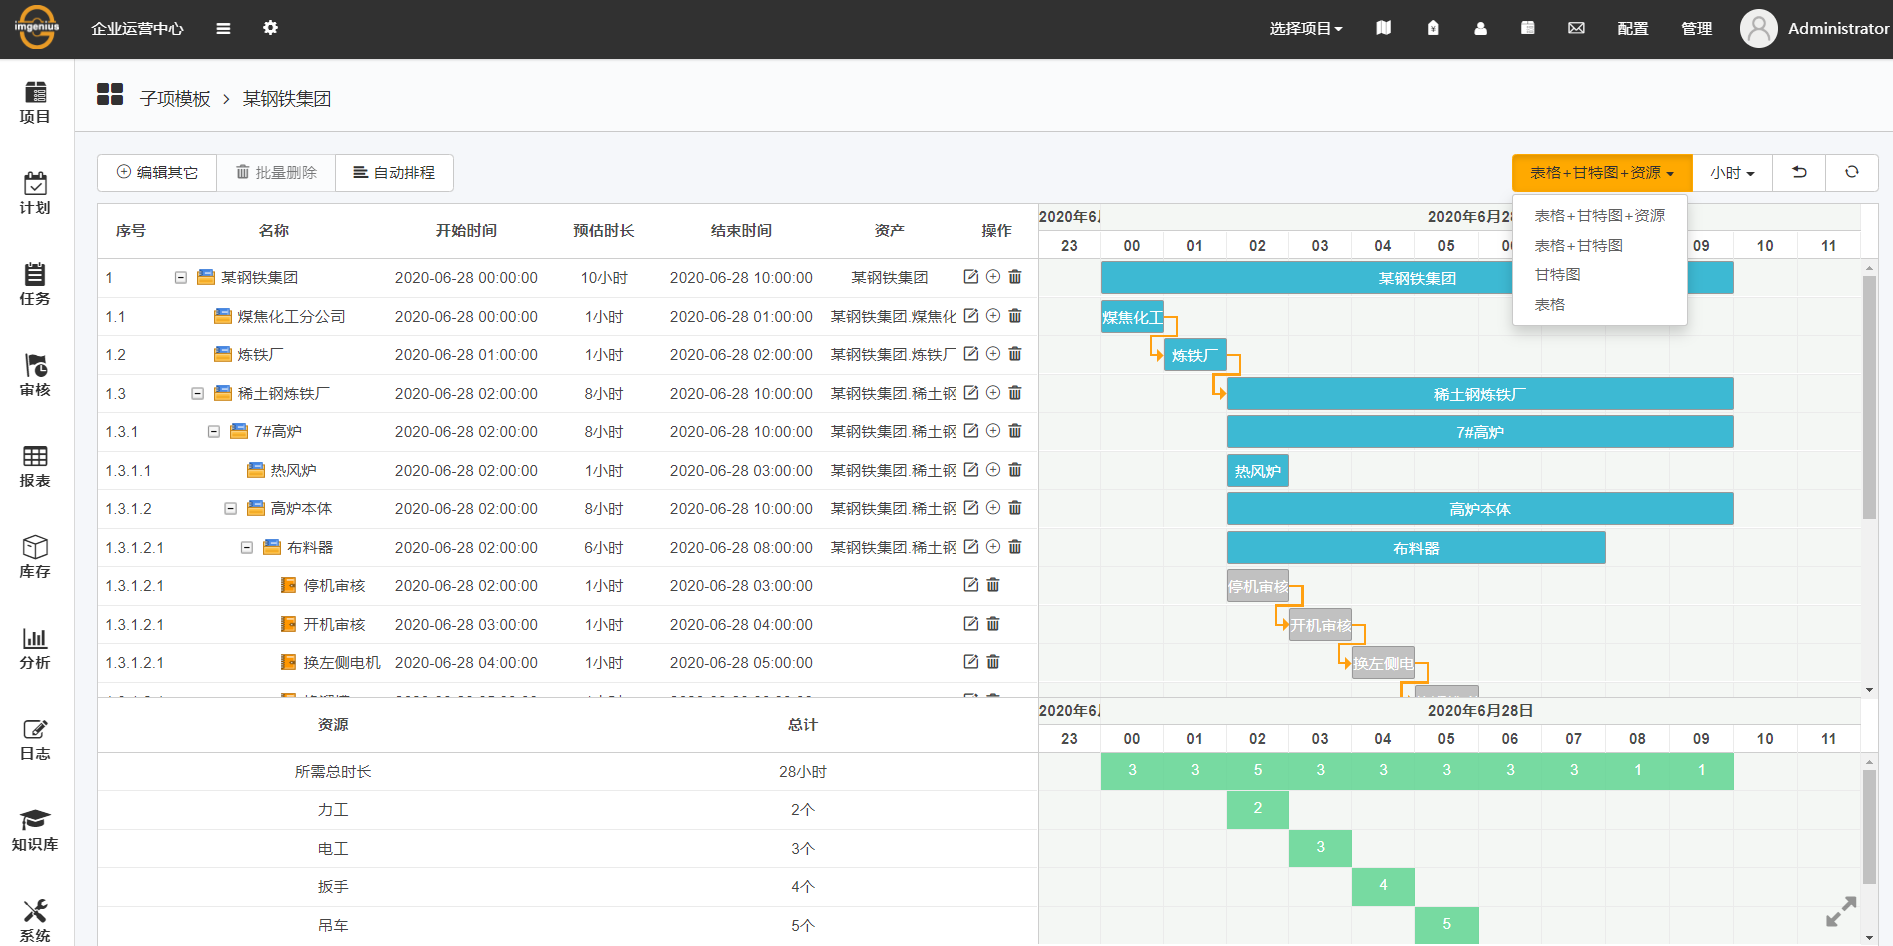
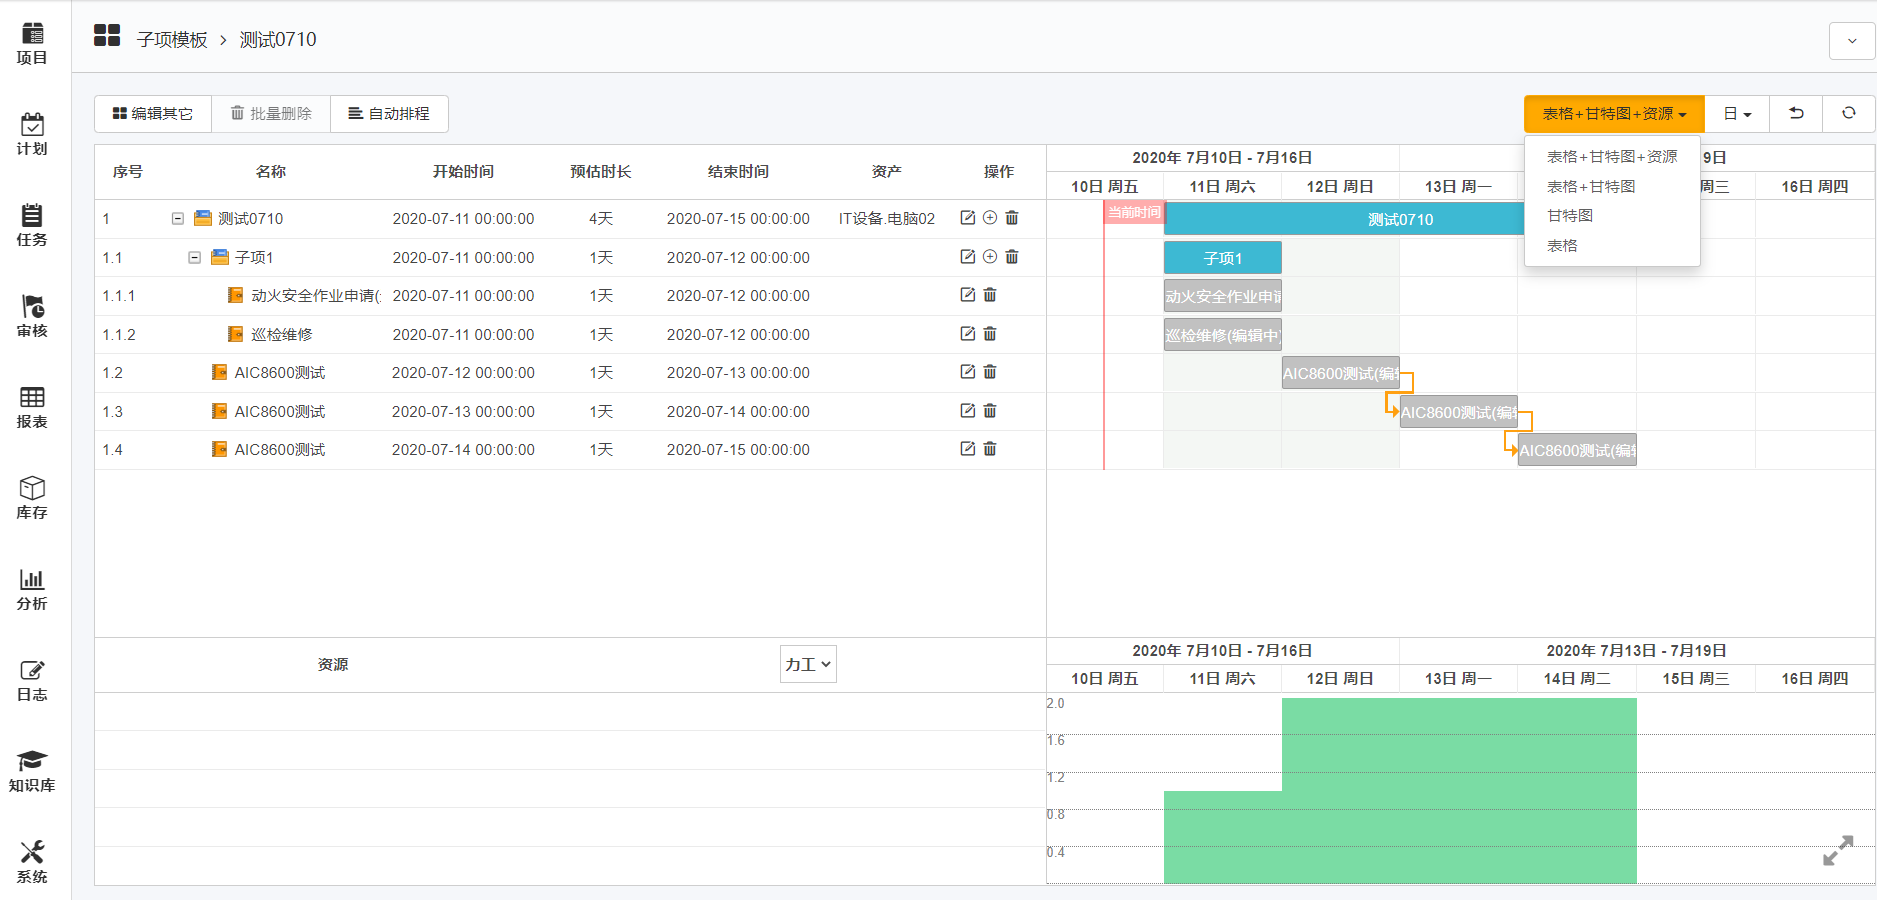
填写内容

diff --git a/docs/发布说明/4.0.0发布说明.md b/docs/发布说明/4.0.0发布说明.md
@@ -9,7 +9,6 @@ import useBaseUrl from '@docusaurus/useBaseUrl';
 1. [PBIN995：Web支持编辑作业组模板](#pbin995：Web支持编辑作业组模板)
 1. [PBIN996：移动工作站支持人脸登录](#pbin996：移动工作站支持人脸登录)
 1. [PBIN1003：移动工作站同时支持SQLite和WebDB](#pbin1003：移动工作站同时支持SQLite和WebDB)
-1. [PBIN1049：移动工作站支持深色模式](#pbin1049：移动工作站支持深色模式)
 1. [PBIN1062：表格显示优化](#pbin1062：表格显示优化)
 
 ## 增加的功能详细说明
@@ -26,6 +25,10 @@ import useBaseUrl from '@docusaurus/useBaseUrl';
 
       <img alt=" " src={useBaseUrl('docimg/xiangmuguanli5.png')} />
 
+    * 支持消息订阅，在项目的流程进行到待执行和待审核时，可以收到消息提醒。订阅的操作同作业组一样，收到的内容为项目相关。
+
+      <img alt=" " src={useBaseUrl('docimg/xiangmuguanli6.png')} />
+
   * 资源
     * 新增资源功能，资源就是一次项目活动中所要用到的东西。在EOC端右上角的配置中点击资源进入维护页面，点击新建，可以新建对应的资源(人力、工具、材料)并填写详细信息。在SDC中作业组的属性框中，可以看到新增了所需资源项，EOC端资源维护页面新建了资源后，SDC上就可以为作业组模板选择所需要的资源，点击新增，填写需要的数量，确定后重新发布即可。之后也可以进行编辑修改。
 
@@ -39,20 +42,26 @@ import useBaseUrl from '@docusaurus/useBaseUrl';
     * 新建完成后，进入子项模板，可以对内容进行查看和编辑，会有一个默认的与子项模板名称一样的子项"某钢铁集团"。页面左侧上为表格视图，包含全部内容和详细信息，可以对任意子项和执行项进行增加删除编辑，其中批量删除批量删除仅支持删除默认子项模板外的子项或执行项，只要按住ctrl或Shift批量选中然后点击批量删除就可以了。左侧下为所需总时长信息和资源信息。子项下可以选择添加子项或执行项，执行项下不可再进行添加。视图中可以选择看单项信息或多项信息。
     * 在一个子项模板中，可以同时编辑其他子项模板内容，编辑实时保存，可以随时直接返回，如果编辑过程中返回或刷新，则其他模板消失，只保留默认子项模板。
     * 非父子关系的子项与子项、子项与执行项可以设置关联关系。执行项与执行项可以设置关联关系。设置关联关系后，可以点击自动排程，系统会根据前者结束时间为后者排程，如果后者开始时间晚于前者结束时间，则维持不变。
+    * 设置关联关系之后，必须要满足前置的执行项都已经归档和到了系统设置的作业组提前创建时间两个条件，后置执行项才可以到发布计划阶段。如果前置项为子项，那么该子项的执行项都必须为完成状态才行。
 
       <img alt=" " src={useBaseUrl('docimg/xiangmuguanli4.png')} />
 
   * 项目
-    * 新建项目时，增加了选择子项模板的功能，选择之后点击确定，进入项目后除了原有的摘要视图和作业组视图外，新增了详细视图，选择详细后，页面与子项模板基本一致。区别在于，项目中对于其他子项的操作为引用，意思是将其他子项模板内容复制到本项目中，所有编辑后的内容也是保存在当前项目中，不会影响子项模板的原内容。
+    * 新建项目时，增加了选择子项模板的功能，选择之后点击确定，进入项目后除了原有的摘要视图和作业组视图外，新增了详细视图，选择详细后，页面与子项模板基本一致。区别在于，项目中可以选择只添加执行项，以及对于其他子项模板的操作为引用，意思是将其他子项模板内容复制到本项目中，所有编辑后的内容也是保存在当前项目中，不会影响子项模板的原内容。
+    * 子项模板和项目都支持调整子项和执行项的位置，用鼠标选中后拖动到目标位置即可。
 
   * 子项
-    * 子项可以看成是一个包，在子项下可以选择添加子项和执行项，其中子项可以一直添加。每个子项都可以自定义名称，设置开始时间和预估的时长，支持关联某一个资产，添加任意的属性。子项的预估时长由最子级的子项或执行项决定。
+    * 子项可以看成是一个包，在子项下可以选择添加子项和执行项，其中子项可以一直添加。每个子项都可以自定义名称，设置开始时间和预估的时长，支持关联某一个资产，添加任意的属性。子项的预估时长由下级的子项或执行项的开始时间及结束时间来决定。子项本身是可以编辑的，但是能否删除，由下级所有子孙的执行项决定。
   
   * 执行项
-    * 执行项就是一个计划，引用已发布的作业组模板，可以对其进行一些编辑。
+    * 执行项就是一个计划，引用已发布的作业组模板，可以对其进行一些相应的编辑。新建页面同计划中新建计划的页面功能一样，区别是没有重复等选项，选择保存后为编辑状态。任何状态下，只要是编辑状态的执行项，都可以进行编辑和删除。如果设置了前置执行项，那么只有当同时满足前置执行项已归档，此执行项发布计划的时间与在SDC中设置的作业组自动创建提前时间一致时，才可以变成非编辑状态，非编辑状态的执行项不可做任何修改。非编辑状态的执行项，也不能够再设置前置节点，其父辈的子项，也都不能再设置前置节点。
+    * 任何状态，都可以添加子项和执行项。
 
   * 甘特图
-    * 甘特图通过条状图来显示项目，进度，和其他时间相关的系统进展的内在关系随着时间进展的情况。在甘特图中可以通过拖拽子项和执行项来改变其开始时间和预估时长。
+    * 详细页面可以查看到甘特图详情，甘特图通过条状图来显示项目，进度，和其他时间相关的系统进展的内在关系随着时间进展的情况。当执行项状态为编辑中时，在甘特图中可以通过拖拽子项和执行项来改变其开始时间和预估时长。
+    * 甘特图中包括了项目中的所有内容，支持对内容进行增删改，并且会显示资源使用情况。当添加的执行项中有配置资源时，在页面下方会提供选择查看某种资源在某个时段的使用数量，以柱状图显示，左侧为数量，执行项时间重叠时，资源显示也会以叠加形态显示。
+    * 可以选择查看的缩放级别为从小时到年，还有自动适合。会有相应线条显示在当前时间。
+    * 设置关联关系只需要将鼠标放在子项或执行项的首尾处，无法关联会有错误提示，根据提示调整关联即可。
 
 ### PBIN995：Web支持编辑作业组模板
 
@@ -86,8 +95,6 @@ import useBaseUrl from '@docusaurus/useBaseUrl';
 ### PBIN1003：移动工作站同时支持SQLite和WebDB
 
 * 此次发布的移动工作站将同时支持SQLite和WebDB,用以兼容搭载安卓10+系统的终端。
-
-### PBIN1049：移动工作站支持深色模式
 
 ### PBIN1062：表格显示优化
 
